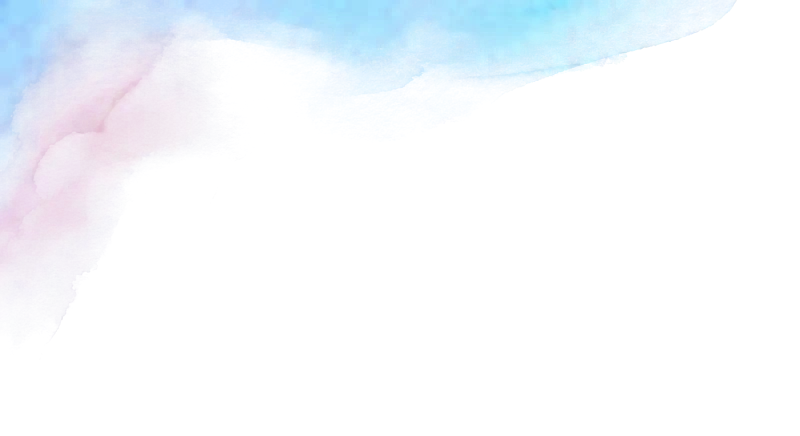
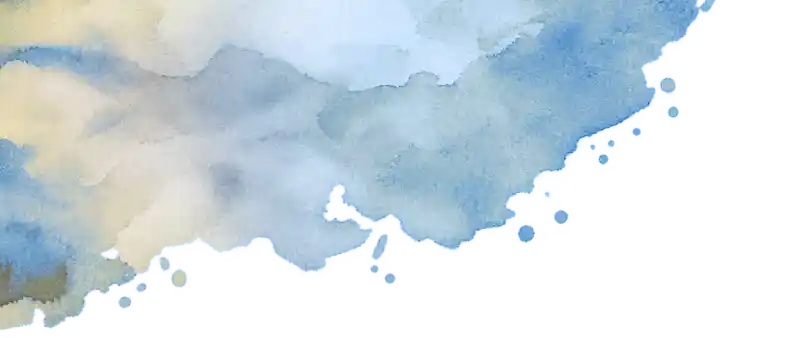
Stop hue-rotating one painting, use a real one per category instead
The corner wash's hue-rotation was recolouring forum-alt3's single
painting into each category's colour, and it read exactly like what it
was: one photograph pushed through a colour filter, not a blue watercolour
or a green one. Four of the five categories now use their own separately
painted watercolour, supplied already in roughly the right hue and used
as-is, no filter:

  forum      paint-corner-forum.webp      = temp/blue.webp
  waldorf    paint-corner-waldorf.webp    = temp/green.webp
  resources  paint-corner-resources.webp  = temp/pink.webp (reads as violet, fits plum)
  inst       paint-corner-inst.webp       = paint-top-left-alpha.webp, already unrotated

contact has no dedicated photograph yet. paint-corner-contact.webp stays
the old hue-rotate(-20deg) derivative for now, a placeholder rather than a
gap, until a rose/pink watercolour is supplied for it the way the other
four were.

The four new files keep their own native sizes (784x338 to 800x436) rather
than a fixed 800x436; background-size:auto already handled that per file,
nothing to change there. Same alpha-fades-to-nothing quality as the
original on all four, so each settles onto its category's solid
background colour the same way.

Caught one bug of my own on the way: a code comment I added last round,
inside the CSS template literal brushCSS() returns, used the literal text
"</body>" to describe where a script gets inserted. That string becomes
[…]

diff --git a/mockup/pages/cat1-resources.html b/mockup/pages/cat1-resources.html
@@ -547,30 +547,34 @@
      behind an in-flow one, only ordinary document order made it look that
      way here.
 
-     paint-corner-resources.webp is a hue-rotated copy of paint-top-left
-     -alpha.webp baked ahead of time at build time (see the comment at the
-     top of the CATS table for why), not the same file recoloured live with
-     filter:hue-rotate(). Same alpha channel, fading to nothing on every
-     edge, so it settles onto the solid category colour below without a
-     hard border of its own to fight.
+     paint-corner-resources.webp: four of the five categories are a
+     distinct source photograph now rather than one painting recoloured
+     five ways (see the note above the CATS table for which file is which
+     and why). All four keep a real alpha channel fading to nothing on
+     every edge, so whichever one is in play settles onto the solid
+     category colour below without a hard border of its own to fight; their
+     native sizes differ (784x338 to 800x436), which background-size:auto
+     handles the same way for each, see below.
 
-     Full scale, not shrunk to fit: background-size:auto renders the
-     painting at its native 800x436 rather than the min(72vw,940px) an
-     earlier pass used, which was scaling it down to roughly a sliver.
-     Anchored at 0 0, the box's own height (380px, 260px on a phone) is
-     what crops it, the same way a photo sitting in a frame smaller than
-     itself is cropped by the frame.
+     Full scale, not shrunk to fit: background-size:auto renders whichever
+     photograph this category uses at its own native size rather than the
+     min(72vw,940px) an earlier pass used, which was scaling it down to
+     roughly a sliver. Anchored at 0 0, the box's own height (380px, 260px
+     on a phone) is what crops it, the same way a photo sitting in a frame
+     smaller than itself is cropped by the frame; a photograph shorter than
+     the box (as most of these are) simply leaves the rest of the box to
+     the solid colour underneath instead of being stretched to fill it.
 
      position:absolute, scrolling with the page like the rest of the
      content, not fixed to the screen. .brush-top's top is the header's own
-     rendered height (--header-h, kept current by the small script this
-     variant adds after <body>), not 0: at 0 the wash sat mostly behind the
-     opaque header and only a sliver ever showed. Anchoring to the header's
-     real height, measured rather than guessed per breakpoint, means it is
-     never wrong at a width this stylesheet did not think to test, or after
-     the header changes height for a reason this file knows nothing about
-     (the mobile drawer opening, a larger a11y font size, the browser's own
-     zoom). */
+     rendered height (--header-h, kept current by a small script this
+     variant adds near the end of the document), not 0: at 0 the wash sat mostly behind
+     the opaque header and only a sliver ever showed. Anchoring to the
+     header's real height, measured rather than guessed per breakpoint,
+     means it is never wrong at a width this stylesheet did not think to
+     test, or after the header changes height for a reason this file knows
+     nothing about (the mobile drawer opening, a larger a11y font size, the
+     browser's own zoom). */
   :root{--paint:url(./img/paint-corner-resources.webp);--header-h:110px}
   body{position:relative}
   /* 16%, not higher: the intro paragraph under the h1 sits directly on this

diff --git a/mockup/pages/cat1-contact.html b/mockup/pages/cat1-contact.html
@@ -550,30 +550,34 @@
      behind an in-flow one, only ordinary document order made it look that
      way here.
 
-     paint-corner-contact.webp is a hue-rotated copy of paint-top-left
-     -alpha.webp baked ahead of time at build time (see the comment at the
-     top of the CATS table for why), not the same file recoloured live with
-     filter:hue-rotate(). Same alpha channel, fading to nothing on every
-     edge, so it settles onto the solid category colour below without a
-     hard border of its own to fight.
+     paint-corner-contact.webp: four of the five categories are a
+     distinct source photograph now rather than one painting recoloured
+     five ways (see the note above the CATS table for which file is which
+     and why). All four keep a real alpha channel fading to nothing on
+     every edge, so whichever one is in play settles onto the solid
+     category colour below without a hard border of its own to fight; their
+     native sizes differ (784x338 to 800x436), which background-size:auto
+     handles the same way for each, see below.
 
-     Full scale, not shrunk to fit: background-size:auto renders the
-     painting at its native 800x436 rather than the min(72vw,940px) an
-     earlier pass used, which was scaling it down to roughly a sliver.
-     Anchored at 0 0, the box's own height (380px, 260px on a phone) is
-     what crops it, the same way a photo sitting in a frame smaller than
-     itself is cropped by the frame.
+     Full scale, not shrunk to fit: background-size:auto renders whichever
+     photograph this category uses at its own native size rather than the
+     min(72vw,940px) an earlier pass used, which was scaling it down to
+     roughly a sliver. Anchored at 0 0, the box's own height (380px, 260px
+     on a phone) is what crops it, the same way a photo sitting in a frame
+     smaller than itself is cropped by the frame; a photograph shorter than
+     the box (as most of these are) simply leaves the rest of the box to
+     the solid colour underneath instead of being stretched to fill it.
 
      position:absolute, scrolling with the page like the rest of the
      content, not fixed to the screen. .brush-top's top is the header's own
-     rendered height (--header-h, kept current by the small script this
-     variant adds after <body>), not 0: at 0 the wash sat mostly behind the
-     opaque header and only a sliver ever showed. Anchoring to the header's
-     real height, measured rather than guessed per breakpoint, means it is
-     never wrong at a width this stylesheet did not think to test, or after
-     the header changes height for a reason this file knows nothing about
-     (the mobile drawer opening, a larger a11y font size, the browser's own
-     zoom). */
+     rendered height (--header-h, kept current by a small script this
+     variant adds near the end of the document), not 0: at 0 the wash sat mostly behind
+     the opaque header and only a sliver ever showed. Anchoring to the
+     header's real height, measured rather than guessed per breakpoint,
+     means it is never wrong at a width this stylesheet did not think to
+     test, or after the header changes height for a reason this file knows
+     nothing about (the mobile drawer opening, a larger a11y font size, the
+     browser's own zoom). */
   :root{--paint:url(./img/paint-corner-contact.webp);--header-h:110px}
   body{position:relative}
   /* 16%, not higher: the intro paragraph under the h1 sits directly on this

diff --git a/mockup/pages/cat1-waldorf.html b/mockup/pages/cat1-waldorf.html
@@ -549,30 +549,34 @@
      behind an in-flow one, only ordinary document order made it look that
      way here.
 
-     paint-corner-waldorf.webp is a hue-rotated copy of paint-top-left
-     -alpha.webp baked ahead of time at build time (see the comment at the
-     top of the CATS table for why), not the same file recoloured live with
-     filter:hue-rotate(). Same alpha channel, fading to nothing on every
-     edge, so it settles onto the solid category colour below without a
-     hard border of its own to fight.
+     paint-corner-waldorf.webp: four of the five categories are a
+     distinct source photograph now rather than one painting recoloured
+     five ways (see the note above the CATS table for which file is which
+     and why). All four keep a real alpha channel fading to nothing on
+     every edge, so whichever one is in play settles onto the solid
+     category colour below without a hard border of its own to fight; their
+     native sizes differ (784x338 to 800x436), which background-size:auto
+     handles the same way for each, see below.
 
-     Full scale, not shrunk to fit: background-size:auto renders the
-     painting at its native 800x436 rather than the min(72vw,940px) an
-     earlier pass used, which was scaling it down to roughly a sliver.
-     Anchored at 0 0, the box's own height (380px, 260px on a phone) is
-     what crops it, the same way a photo sitting in a frame smaller than
-     itself is cropped by the frame.
+     Full scale, not shrunk to fit: background-size:auto renders whichever
+     photograph this category uses at its own native size rather than the
+     min(72vw,940px) an earlier pass used, which was scaling it down to
+     roughly a sliver. Anchored at 0 0, the box's own height (380px, 260px
+     on a phone) is what crops it, the same way a photo sitting in a frame
+     smaller than itself is cropped by the frame; a photograph shorter than
+     the box (as most of these are) simply leaves the rest of the box to
+     the solid colour underneath instead of being stretched to fill it.
 
      position:absolute, scrolling with the page like the rest of the
      content, not fixed to the screen. .brush-top's top is the header's own
-     rendered height (--header-h, kept current by the small script this
-     variant adds after <body>), not 0: at 0 the wash sat mostly behind the
-     opaque header and only a sliver ever showed. Anchoring to the header's
-     real height, measured rather than guessed per breakpoint, means it is
-     never wrong at a width this stylesheet did not think to test, or after
-     the header changes height for a reason this file knows nothing about
-     (the mobile drawer opening, a larger a11y font size, the browser's own
-     zoom). */
+     rendered height (--header-h, kept current by a small script this
+     variant adds near the end of the document), not 0: at 0 the wash sat mostly behind
+     the opaque header and only a sliver ever showed. Anchoring to the
+     header's real height, measured rather than guessed per breakpoint,
+     means it is never wrong at a width this stylesheet did not think to
+     test, or after the header changes height for a reason this file knows
+     nothing about (the mobile drawer opening, a larger a11y font size, the
+     browser's own zoom). */
   :root{--paint:url(./img/paint-corner-waldorf.webp);--header-h:110px}
   body{position:relative}
   /* 16%, not higher: the intro paragraph under the h1 sits directly on this

diff --git a/mockup/pages/cat1-forum.html b/mockup/pages/cat1-forum.html
@@ -559,30 +559,34 @@
      behind an in-flow one, only ordinary document order made it look that
      way here.
 
-     paint-corner-forum.webp is a hue-rotated copy of paint-top-left
-     -alpha.webp baked ahead of time at build time (see the comment at the
-     top of the CATS table for why), not the same file recoloured live with
-     filter:hue-rotate(). Same alpha channel, fading to nothing on every
-     edge, so it settles onto the solid category colour below without a
-     hard border of its own to fight.
+     paint-corner-forum.webp: four of the five categories are a
+     distinct source photograph now rather than one painting recoloured
+     five ways (see the note above the CATS table for which file is which
+     and why). All four keep a real alpha channel fading to nothing on
+     every edge, so whichever one is in play settles onto the solid
+     category colour below without a hard border of its own to fight; their
+     native sizes differ (784x338 to 800x436), which background-size:auto
+     handles the same way for each, see below.
 
-     Full scale, not shrunk to fit: background-size:auto renders the
-     painting at its native 800x436 rather than the min(72vw,940px) an
-     earlier pass used, which was scaling it down to roughly a sliver.
-     Anchored at 0 0, the box's own height (380px, 260px on a phone) is
-     what crops it, the same way a photo sitting in a frame smaller than
-     itself is cropped by the frame.
+     Full scale, not shrunk to fit: background-size:auto renders whichever
+     photograph this category uses at its own native size rather than the
+     min(72vw,940px) an earlier pass used, which was scaling it down to
+     roughly a sliver. Anchored at 0 0, the box's own height (380px, 260px
+     on a phone) is what crops it, the same way a photo sitting in a frame
+     smaller than itself is cropped by the frame; a photograph shorter than
+     the box (as most of these are) simply leaves the rest of the box to
+     the solid colour underneath instead of being stretched to fill it.
 
      position:absolute, scrolling with the page like the rest of the
      content, not fixed to the screen. .brush-top's top is the header's own
-     rendered height (--header-h, kept current by the small script this
-     variant adds after <body>), not 0: at 0 the wash sat mostly behind the
-     opaque header and only a sliver ever showed. Anchoring to the header's
-     real height, measured rather than guessed per breakpoint, means it is
-     never wrong at a width this stylesheet did not think to test, or after
-     the header changes height for a reason this file knows nothing about
-     (the mobile drawer opening, a larger a11y font size, the browser's own
-     zoom). */
+     rendered height (--header-h, kept current by a small script this
+     variant adds near the end of the document), not 0: at 0 the wash sat mostly behind
+     the opaque header and only a sliver ever showed. Anchoring to the
+     header's real height, measured rather than guessed per breakpoint,
+     means it is never wrong at a width this stylesheet did not think to
+     test, or after the header changes height for a reason this file knows
+     nothing about (the mobile drawer opening, a larger a11y font size, the
+     browser's own zoom). */
   :root{--paint:url(./img/paint-corner-forum.webp);--header-h:110px}
   body{position:relative}
   /* 16%, not higher: the intro paragraph under the h1 sits directly on this

diff --git a/mockup/pages/cat1-inst.html b/mockup/pages/cat1-inst.html
@@ -536,30 +536,34 @@
      behind an in-flow one, only ordinary document order made it look that
      way here.
 
-     paint-corner-inst.webp is a hue-rotated copy of paint-top-left
-     -alpha.webp baked ahead of time at build time (see the comment at the
-     top of the CATS table for why), not the same file recoloured live with
-     filter:hue-rotate(). Same alpha channel, fading to nothing on every
-     edge, so it settles onto the solid category colour below without a
-     hard border of its own to fight.
+     paint-corner-inst.webp: four of the five categories are a
+     distinct source photograph now rather than one painting recoloured
+     five ways (see the note above the CATS table for which file is which
+     and why). All four keep a real alpha channel fading to nothing on
+     every edge, so whichever one is in play settles onto the solid
+     category colour below without a hard border of its own to fight; their
+     native sizes differ (784x338 to 800x436), which background-size:auto
+     handles the same way for each, see below.
 
-     Full scale, not shrunk to fit: background-size:auto renders the
-     painting at its native 800x436 rather than the min(72vw,940px) an
-     earlier pass used, which was scaling it down to roughly a sliver.
-     Anchored at 0 0, the box's own height (380px, 260px on a phone) is
-     what crops it, the same way a photo sitting in a frame smaller than
-     itself is cropped by the frame.
+     Full scale, not shrunk to fit: background-size:auto renders whichever
+     photograph this category uses at its own native size rather than the
+     min(72vw,940px) an earlier pass used, which was scaling it down to
+     roughly a sliver. Anchored at 0 0, the box's own height (380px, 260px
+     on a phone) is what crops it, the same way a photo sitting in a frame
+     smaller than itself is cropped by the frame; a photograph shorter than
+     the box (as most of these are) simply leaves the rest of the box to
+     the solid colour underneath instead of being stretched to fill it.
 
      position:absolute, scrolling with the page like the rest of the
      content, not fixed to the screen. .brush-top's top is the header's own
-     rendered height (--header-h, kept current by the small script this
-     variant adds after <body>), not 0: at 0 the wash sat mostly behind the
-     opaque header and only a sliver ever showed. Anchoring to the header's
-     real height, measured rather than guessed per breakpoint, means it is
-     never wrong at a width this stylesheet did not think to test, or after
-     the header changes height for a reason this file knows nothing about
-     (the mobile drawer opening, a larger a11y font size, the browser's own
-     zoom). */
+     rendered height (--header-h, kept current by a small script this
+     variant adds near the end of the document), not 0: at 0 the wash sat mostly behind
+     the opaque header and only a sliver ever showed. Anchoring to the
+     header's real height, measured rather than guessed per breakpoint,
+     means it is never wrong at a width this stylesheet did not think to
+     test, or after the header changes height for a reason this file knows
+     nothing about (the mobile drawer opening, a larger a11y font size, the
+     browser's own zoom). */
   :root{--paint:url(./img/paint-corner-inst.webp);--header-h:110px}
   body{position:relative}
   /* 16%, not higher: the intro paragraph under the h1 sits directly on this
